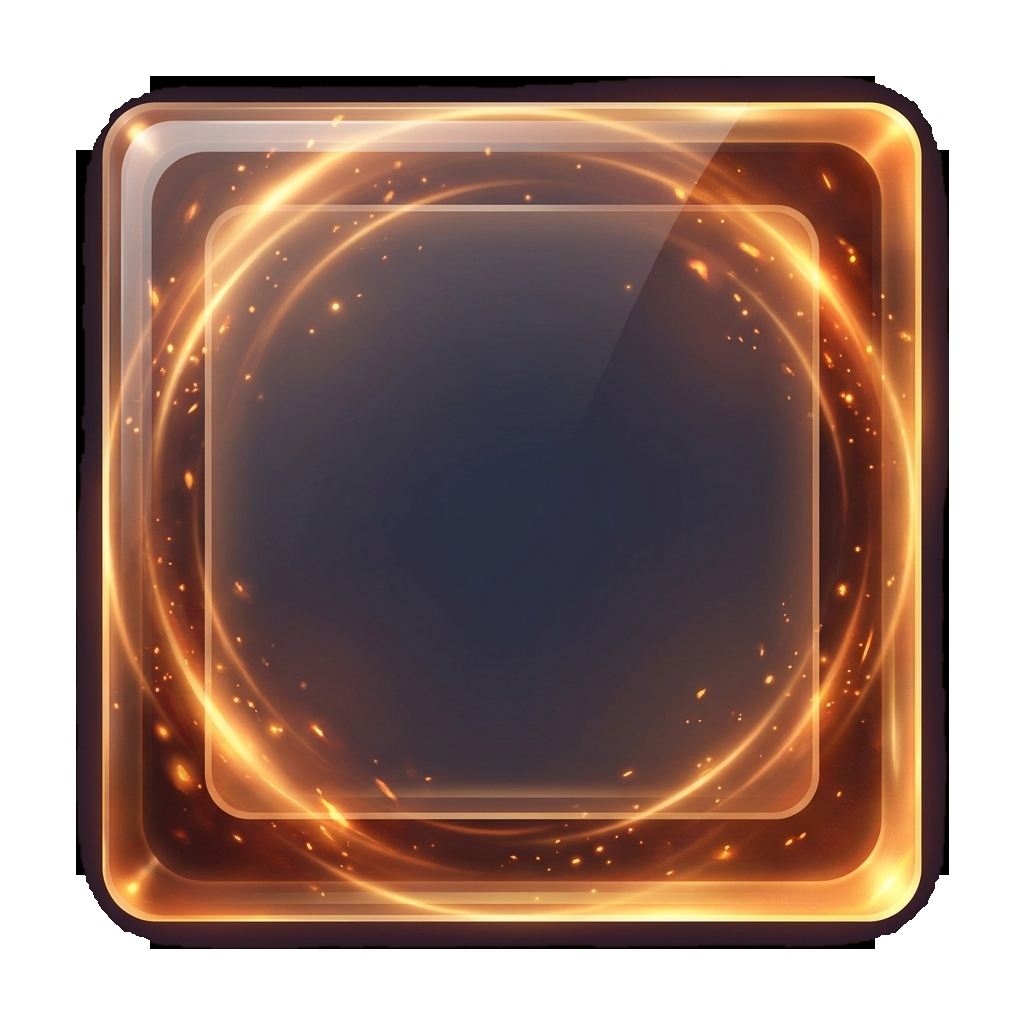
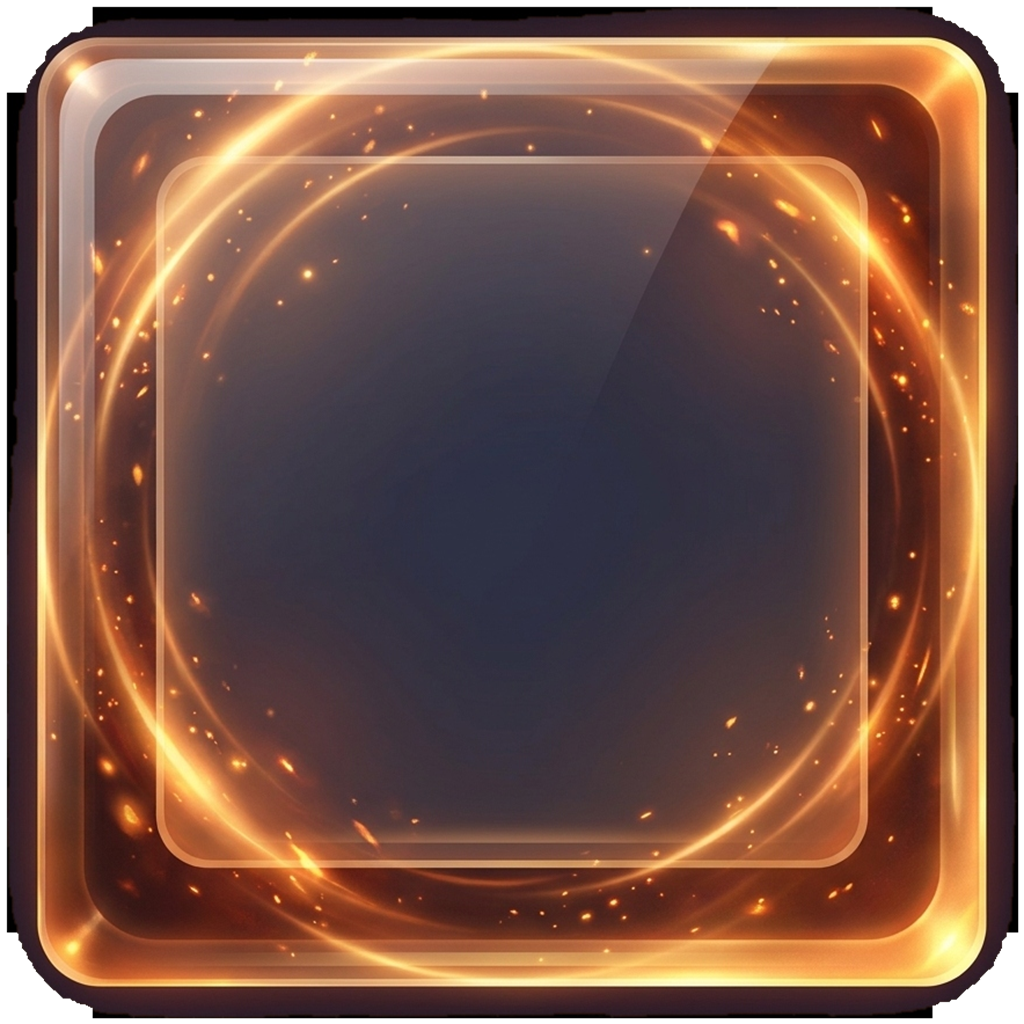
fix(board): crop slot image margins to fit square slots edge-to-edge and remove artificial double borders

diff --git a/ui/style.css b/ui/style.css
@@ -7418,9 +7418,9 @@ button.gold:hover:not(:disabled) {
 
 /* ================= PORTAL SLOT ARTWORK ON BOTH SIDES (OPPONENT & PLAYER) ================= */
 .cosmic-slot.cosmic-pioneer {
-  background: #0d1629 url('assets/board/slot_pioneer.png?v=6.0') center center / 100% 100% no-repeat !important;
+  background: transparent url('assets/board/slot_pioneer.png?v=6.5') center center / 100% 100% no-repeat !important;
   border: none !important;
-  box-shadow: 0 0 18px rgba(250, 204, 21, 0.7), inset 0 0 10px rgba(250, 204, 21, 0.3) !important;
+  box-shadow: 0 0 16px rgba(250, 204, 21, 0.45) !important;
   border-radius: 8px !important;
 }
 .cosmic-slot.cosmic-pioneer .cosmic-slot-wm {
@@ -7430,9 +7430,9 @@ button.gold:hover:not(:disabled) {
 }
 
 .cosmic-slot.cosmic-entity {
-  background: #141124 url('assets/board/slot_entity.png?v=6.1') center center / 100% 100% no-repeat !important;
+  background: transparent url('assets/board/slot_entity.png?v=6.5') center center / 100% 100% no-repeat !important;
   border: none !important;
-  box-shadow: 0 0 16px rgba(249, 115, 22, 0.6), inset 0 0 10px rgba(249, 115, 22, 0.3) !important;
+  box-shadow: 0 0 14px rgba(249, 115, 22, 0.4) !important;
   border-radius: 8px !important;
 }
 .cosmic-slot.cosmic-entity .cosmic-slot-wm {
@@ -7442,9 +7442,9 @@ button.gold:hover:not(:disabled) {
 }
 
 .cosmic-slot.cosmic-distortion {
-  background: rgba(8, 28, 24, 0.85) url('assets/board/slot_distortion.png') center center / cover no-repeat !important;
-  border: 2.5px solid #2dd4bf !important;
-  box-shadow: inset 0 0 14px rgba(45, 212, 191, 0.5), 0 0 12px rgba(45, 212, 191, 0.4) !important;
+  background: transparent url('assets/board/slot_distortion.png?v=6.5') center center / 100% 100% no-repeat !important;
+  border: none !important;
+  box-shadow: 0 0 14px rgba(45, 212, 191, 0.4) !important;
   border-radius: 8px !important;
 }
 .cosmic-slot.cosmic-distortion .cosmic-slot-wm {
@@ -7454,9 +7454,9 @@ button.gold:hover:not(:disabled) {
 }
 
 .cosmic-slot.cosmic-chronicle {
-  background: #091329 url('assets/board/slot_chronicle.png') center center / cover no-repeat !important;
-  border: 2px solid #38bdf8 !important;
-  box-shadow: 0 0 16px rgba(56, 189, 248, 0.6) !important;
+  background: transparent url('assets/board/slot_chronicle.png?v=6.5') center center / 100% 100% no-repeat !important;
+  border: none !important;
+  box-shadow: 0 0 14px rgba(56, 189, 248, 0.4) !important;
   border-radius: 8px !important;
 }
 .cosmic-slot.cosmic-chronicle .cosmic-pile-name {
@@ -7469,9 +7469,9 @@ button.gold:hover:not(:disabled) {
 }
 
 .cosmic-slot.cosmic-abyss {
-  background: #19092c url('assets/board/slot_abyss.png') center center / cover no-repeat !important;
-  border: 2px solid #a855f7 !important;
-  box-shadow: 0 0 16px rgba(168, 85, 247, 0.6) !important;
+  background: transparent url('assets/board/slot_abyss.png?v=6.5') center center / 100% 100% no-repeat !important;
+  border: none !important;
+  box-shadow: 0 0 14px rgba(168, 85, 247, 0.4) !important;
   border-radius: 8px !important;
 }
 .cosmic-slot.cosmic-abyss .cosmic-pile-name {
@@ -7484,9 +7484,9 @@ button.gold:hover:not(:disabled) {
 }
 
 .cosmic-slot.cosmic-astral {
-  background: #07192c url('assets/board/slot_astral.png') center center / cover no-repeat !important;
-  border: 2px solid #06b6d4 !important;
-  box-shadow: 0 0 16px rgba(6, 182, 212, 0.6) !important;
+  background: transparent url('assets/board/slot_astral.png?v=6.5') center center / 100% 100% no-repeat !important;
+  border: none !important;
+  box-shadow: 0 0 14px rgba(6, 182, 212, 0.4) !important;
   border-radius: 8px !important;
 }
 .cosmic-slot.cosmic-astral .cosmic-pile-name {
@@ -7499,9 +7499,9 @@ button.gold:hover:not(:disabled) {
 }
 
 .cosmic-slot.cosmic-exile {
-  background: #2b0808 url('assets/board/slot_exile.png') center center / cover no-repeat !important;
-  border: 2px solid #ef4444 !important;
-  box-shadow: 0 0 16px rgba(239, 68, 68, 0.6) !important;
+  background: transparent url('assets/board/slot_exile.png?v=6.5') center center / 100% 100% no-repeat !important;
+  border: none !important;
+  box-shadow: 0 0 14px rgba(239, 68, 68, 0.4) !important;
   border-radius: 8px !important;
 }
 .cosmic-slot.cosmic-exile .cosmic-pile-name {
@@ -7519,9 +7519,9 @@ button.gold:hover:not(:disabled) {
   width: var(--sq-size) !important;
   height: var(--sq-size) !important;
   aspect-ratio: 1 / 1 !important;
-  background: #3730a3 url('assets/board/slot_field.png') center center / cover no-repeat !important;
-  border: 2.5px solid #818cf8 !important;
-  box-shadow: 0 0 18px rgba(129, 140, 248, 0.6) !important;
+  background: transparent url('assets/board/slot_field.png?v=6.5') center center / 100% 100% no-repeat !important;
+  border: none !important;
+  box-shadow: 0 0 16px rgba(129, 140, 248, 0.45) !important;
   border-radius: 8px !important;
 }
 .cosmic-field-slot .cosmic-slot-wm {

diff --git a/index.html b/index.html
@@ -7,7 +7,7 @@
 <link rel="preconnect" href="https://fonts.googleapis.com">
 <link rel="preconnect" href="https://fonts.gstatic.com" crossorigin>
 <link href="https://fonts.googleapis.com/css2?family=Itim&family=Mali:wght@500;600;700;800;900&family=Sarabun:wght@400;600;700;800&display=swap" rel="stylesheet">
-<link rel="stylesheet" href="ui/style.css?v=6.2">
+<link rel="stylesheet" href="ui/style.css?v=6.5">
 <link rel="stylesheet" href="ui/lobby.css?v=4.6">
 </head>
 <body>
